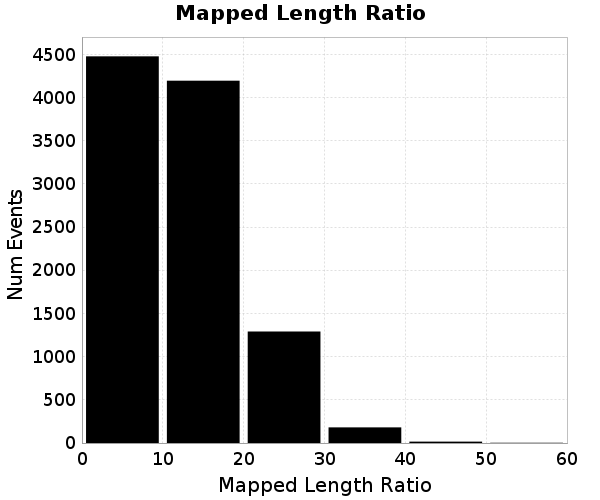
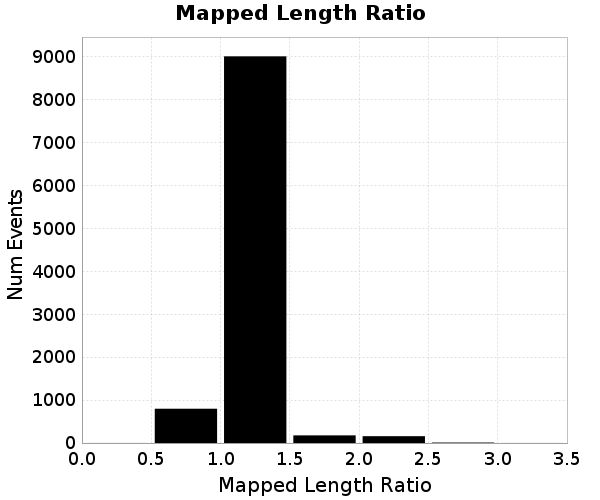
fixed length calcs for JG

diff --git a/catalogs/tunedBase1m_ddotEQmod/extreme_events/index.html b/catalogs/tunedBase1m_ddotEQmod/extreme_events/index.html
@@ -105,11 +105,11 @@ img {
 <tr><th>Event ID</th><th>Mapped Length Ratio</th><th>Plot</th></tr>
 </thead>
 <tbody>
-<tr><td><strong>5798783</strong></td><td><strong>56.43</strong></td><td><img src="resources/event_5798783.png" alt="Rupture Plot" /></td></tr>
-<tr><td><strong>7863322</strong></td><td><strong>56.43</strong></td><td><img src="resources/event_7863322.png" alt="Rupture Plot" /></td></tr>
-<tr><td><strong>31243115</strong></td><td><strong>50.39</strong></td><td><img src="resources/event_31243115.png" alt="Rupture Plot" /></td></tr>
-<tr><td><strong>27745787</strong></td><td><strong>48.35</strong></td><td><img src="resources/event_27745787.png" alt="Rupture Plot" /></td></tr>
-<tr><td><strong>6804744</strong></td><td><strong>47.35</strong></td><td><img src="resources/event_6804744.png" alt="Rupture Plot" /></td></tr>
+<tr><td><strong>33018686</strong></td><td><strong>3.07</strong></td><td><img src="resources/event_33018686.png" alt="Rupture Plot" /></td></tr>
+<tr><td><strong>25481246</strong></td><td><strong>2.99</strong></td><td><img src="resources/event_25481246.png" alt="Rupture Plot" /></td></tr>
+<tr><td><strong>18109274</strong></td><td><strong>2.96</strong></td><td><img src="resources/event_18109274.png" alt="Rupture Plot" /></td></tr>
+<tr><td><strong>15232060</strong></td><td><strong>2.93</strong></td><td><img src="resources/event_15232060.png" alt="Rupture Plot" /></td></tr>
+<tr><td><strong>12763766</strong></td><td><strong>2.9</strong></td><td><img src="resources/event_12763766.png" alt="Rupture Plot" /></td></tr>
 </tbody>
 </table>
 <h2 id="mapped-excess-length">Mapped Excess Length</h2>
@@ -124,11 +124,11 @@ img {
 <tr><th>Event ID</th><th>Mapped Excess Length</th><th>Plot</th></tr>
 </thead>
 <tbody>
-<tr><td><strong>5798783</strong></td><td><strong>295.66 (km)</strong></td><td><img src="resources/event_5798783.png" alt="Rupture Plot" /></td></tr>
-<tr><td><strong>7863322</strong></td><td><strong>295.66 (km)</strong></td><td><img src="resources/event_7863322.png" alt="Rupture Plot" /></td></tr>
-<tr><td><strong>7380799</strong></td><td><strong>279.87 (km)</strong></td><td><img src="resources/event_7380799.png" alt="Rupture Plot" /></td></tr>
-<tr><td><strong>36529162</strong></td><td><strong>276.58 (km)</strong></td><td><img src="resources/event_36529162.png" alt="Rupture Plot" /></td></tr>
-<tr><td><strong>16476751</strong></td><td><strong>275.26 (km)</strong></td><td><img src="resources/event_16476751.png" alt="Rupture Plot" /></td></tr>
+<tr><td><strong>29149906</strong></td><td><strong>164.27 (km)</strong></td><td><img src="resources/event_29149906.png" alt="Rupture Plot" /></td></tr>
+<tr><td><strong>27046217</strong></td><td><strong>155.74 (km)</strong></td><td><img src="resources/event_27046217.png" alt="Rupture Plot" /></td></tr>
+<tr><td><strong>18109274</strong></td><td><strong>139.99 (km)</strong></td><td><img src="resources/event_18109274.png" alt="Rupture Plot" /></td></tr>
+<tr><td><strong>25481246</strong></td><td><strong>131.96 (km)</strong></td><td><img src="resources/event_25481246.png" alt="Rupture Plot" /></td></tr>
+<tr><td><strong>21862982</strong></td><td><strong>122.01 (km)</strong></td><td><img src="resources/event_21862982.png" alt="Rupture Plot" /></td></tr>
 </tbody>
 </table>
 <h2 id="moment-off-mapped-rupture">Moment Off Mapped Rupture</h2>

diff --git a/catalogs/tunedBase1m_ddotEQmod/extreme_events/README.md b/catalogs/tunedBase1m_ddotEQmod/extreme_events/README.md
@@ -74,11 +74,11 @@ Ratio of the total rupture length (UCERF3 mapped subsection rupture) to the idea
 
 | Event ID | Mapped Length Ratio | Plot |
 |-----|-----|-----|
-| **5798783** | **56.43** | ![Rupture Plot](resources/event_5798783.png) |
-| **7863322** | **56.43** | ![Rupture Plot](resources/event_7863322.png) |
-| **31243115** | **50.39** | ![Rupture Plot](resources/event_31243115.png) |
-| **27745787** | **48.35** | ![Rupture Plot](resources/event_27745787.png) |
-| **6804744** | **47.35** | ![Rupture Plot](resources/event_6804744.png) |
+| **33018686** | **3.07** | ![Rupture Plot](resources/event_33018686.png) |
+| **25481246** | **2.99** | ![Rupture Plot](resources/event_25481246.png) |
+| **18109274** | **2.96** | ![Rupture Plot](resources/event_18109274.png) |
+| **15232060** | **2.93** | ![Rupture Plot](resources/event_15232060.png) |
+| **12763766** | **2.9** | ![Rupture Plot](resources/event_12763766.png) |
 
 ## Mapped Excess Length
 *[(top)](#table-of-contents)*
@@ -93,11 +93,11 @@ Total rupture length (UCERF3 mapped subsection rupture) minus the idealized leng
 
 | Event ID | Mapped Excess Length | Plot |
 |-----|-----|-----|
-| **5798783** | **295.66 (km)** | ![Rupture Plot](resources/event_5798783.png) |
-| **7863322** | **295.66 (km)** | ![Rupture Plot](resources/event_7863322.png) |
-| **7380799** | **279.87 (km)** | ![Rupture Plot](resources/event_7380799.png) |
-| **36529162** | **276.58 (km)** | ![Rupture Plot](resources/event_36529162.png) |
-| **16476751** | **275.26 (km)** | ![Rupture Plot](resources/event_16476751.png) |
+| **29149906** | **164.27 (km)** | ![Rupture Plot](resources/event_29149906.png) |
+| **27046217** | **155.74 (km)** | ![Rupture Plot](resources/event_27046217.png) |
+| **18109274** | **139.99 (km)** | ![Rupture Plot](resources/event_18109274.png) |
+| **25481246** | **131.96 (km)** | ![Rupture Plot](resources/event_25481246.png) |
+| **21862982** | **122.01 (km)** | ![Rupture Plot](resources/event_21862982.png) |
 
 ## Moment Off Mapped Rupture
 *[(top)](#table-of-contents)*
